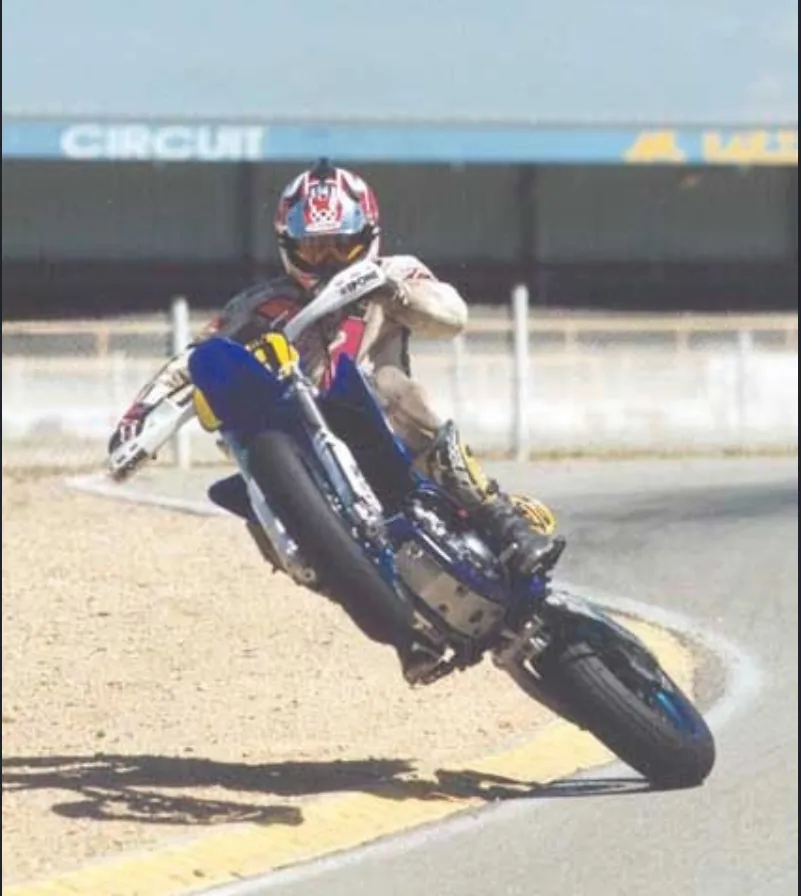
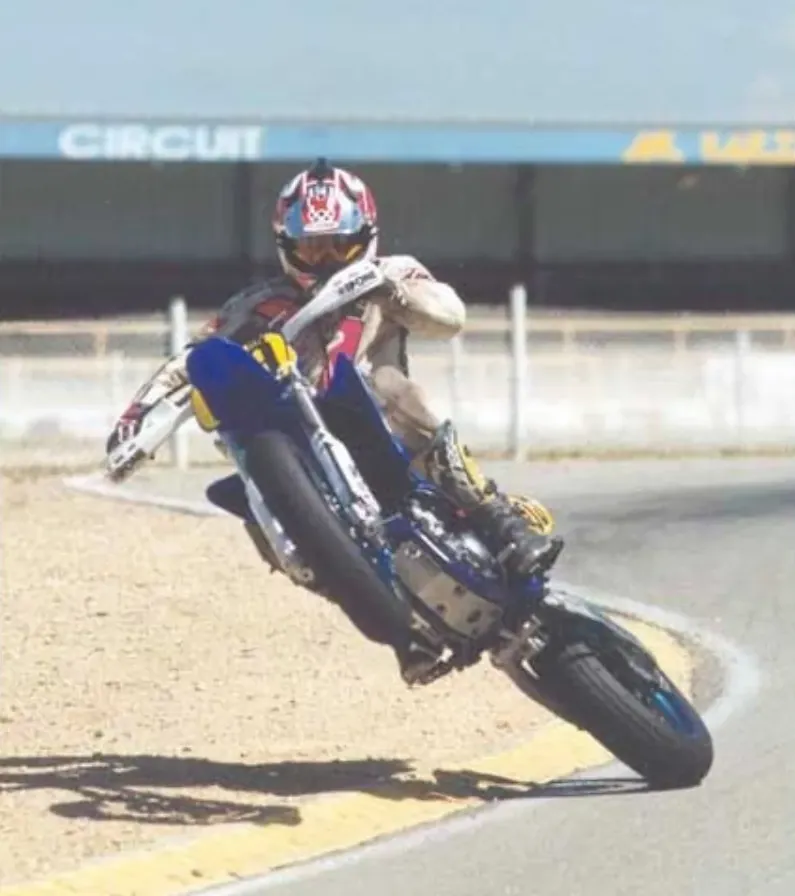
Reveiw + picture resize

diff --git a/docs/07_moto/001_notes_pilotage/005_conduite_du_virage/conduite_du_virage.md b/docs/07_moto/001_notes_pilotage/005_conduite_du_virage/conduite_du_virage.md
@@ -19,7 +19,7 @@ last_modified_date: 2023-05-21 12:35:50
 <!-- ###################################################################### -->
 ## Introduction
 
-Je vais commencer par faire un rappel des épisodes précédents pour bien situer ce billet dans son contexte.
+Je vais commencer par faire un rappel des épisodes précédents pour bien situer ce billet dans son contexte. En effet, c'est le dernier de la partie Basics, après on passe en mode Advanced.
 
 1. Tu as découvert la piste. Tu poses correctement tes pieds, tu sais où sont les cônes (PMSA, PC et PS) et tu te couches sur la moto dans au moins un endroit du circuit. 
 1. Tu as continué à découvrir la piste et tu es 100% gaz, **en butée**, dans au moins un endroit du circuit.
@@ -30,7 +30,7 @@ Bon ben voilà, tout est dit, y a plus qu'à. Allez, salut!
 
 Hmm... Voilà où on en est : on commence à voir certains éléments se mettre en place, on a une idée générale de ce qu’on cherche à **produire**, mais le problème, c’est qu’on manque encore de régularité. Tout ça manque un peu de cohérence, comme si on avait les points mais pas encore les traits pour les relier. En gros, on n’y est pas tout à fait.
 
-Et c’est pour ça que ce billet est un peu particulier, que c'est celui daont la section Remarques est la plus longue et que c'est le dernier de la section Basics. Maintenant, on sait ce qu’on veut : couché, en butée, trois phases de freinage, au point de corde avec les roues vers le point de sortie… Bref, on a les briques de base du pilotage. Ce qu’il nous reste à faire, c’est assembler tout ça pour **produire** quelque chose de solide. En gros, on va jouer au Lego. Sympa, non ? Allez, c’est parti !
+Et c’est pour ça que ce billet est un peu particulier, que c'est celui dont la section Remarques est la plus longue et que c'est le dernier de la section Basics. Maintenant, on sait ce que l’on veut : couché, en butée, trois phases de freinage, sur point de corde avec les roues vers le point de sortie… Bref, on a les briques de base du pilotage. Ce qu’il nous reste à faire, c’est assembler tout ça pour **produire** quelque chose de solide. En gros, on va jouer au Lego. Sympa, non ? Allez, c’est parti !
 
 
 <div align="center">
@@ -38,14 +38,14 @@ Et c’est pour ça que ce billet est un peu particulier, que c'est celui daont 
 </div>
 
 
-* Le freinage en ligne droite est terminé, on met la moto sur l'angle, on rentre dans le virage et ? 
+* Le freinage en ligne droite est terminé, on inscrit la moto sur l'angle, on rentre dans le virage et ? 
 * Et la seule question que l'on doit se poser alors c'est : **comment je fais pour sortir de là comme une balle ?**
 
 Tu connais la réponse. Réfléchis... Les secondes se gagnent dans les lignes droites et les grands virages (pas dans les petits virages, pas dans les freinages ni les portions lentes du circuit). 
 
 On considère que l'on est efficace en ligne droite lorsque le temps passé à V max est maximisé. L'idée c'est que toute chose égales par ailleurs (ligne droite, moto, accélération, V max...) un pilote est plus efficace qu'un autre si il passe plus de temps à V max. Comme les accélérations sont identiques il n'y a pas d'autre solution que de sortir en étant le premier à accélérer. Mécaniquement, si on est le premier à accélérer, à chaque instant on accéléra plus fort et sortira plus vite que l'autre pilote. *Celui qui gagne ce n’est pas celui qui accélère le plus fort mais celui qui accélère le plus tôt*. C'est ça qu'on cherche à **produire** avec une conduite de virage efficace.
 
-Ce qu'il y a bien, c'est que la mesure de nos progrès va être très simple. En effet, l'efficacité de notre conduite de virage n'est mesurée qu'à l'aune de notre vitesse de sortie de virage. On se fiche de l'angle qu'on prend, on se fout d'être Débutant ou Expert et on se contrefiche de notre vitesse d'entrée... Seule compte notre vitesse de sortie du virage.
+Ce qu'il y a bien, c'est que la mesure de nos progrès va être très simple. En effet, l'efficacité de notre conduite de virage n'est mesurée qu'à l'aune de notre vitesse de sortie de virage. On se fiche de l'angle qu'on prend, on se fout d'être Débutant ou Expert et on se contrefiche de notre vitesse d'entrée... Seule compte l'augmentation de notre vitesse de sortie du virage.
 
 
 
@@ -63,7 +63,7 @@ Autrement dit :
 
 * Être capable d'appliquer la **Throttle Rule** dans les virages (voir la [Note de Pilotage N° 02]({%link docs/07_moto/001_notes_pilotage/002_decouverte_de_la_piste_2/decouverte_de_la_piste_2.md%}))
 * Car c'est la confirmation qu'on est sur notre ligne idéale pour tel ou tel virage
-* On s'occupe du point de sortie (PS) car on veut qu'au point de corde (PC) les roues soient sur la ligne qui relie le PV au PS en passant par PC mais on ne s'occupe pas vraiment de la façon dont on redresse la moto. On verra ça un peu plus tard... [Note de Pilotage N° 06] NOT YET TRANSFERED (https://www.40tude.fr/pilotage-moto-06-contre-braquage-en-sortie-de-virage/).
+* On s'occupe du point de sortie (PS) car on veut qu'au point de corde (PC) les roues soient sur la ligne qui relie le PV au PS en passant par PC. Cela dit, on ne s'occupe pas vraiment de la façon dont on redresse la moto. On verra ça plus tard... [Note de Pilotage N° 06] NOT YET TRANSFERED (https://www.40tude.fr/pilotage-moto-06-contre-braquage-en-sortie-de-virage/).
 
 
 
@@ -73,7 +73,7 @@ Autrement dit :
 <!-- ###################################################################### -->
 ## Prérequis
 
-* Ne pas avoir peur d'être 100% gaz, **en butée**. Savoir comment passer à 100% gaz rapidement. Faut avoir déjà expérimenté sinon ça ne sert à rien de venir ici.
+* Ne pas avoir peur d'être 100% gaz, **en butée**. Savoir comment ouvrir les gaz rapidement. Faut l'avoir fait sinon ça ne sert à rien de venir ici. Si tu as un 1000 et si tu n'oses pas le faire passe sur un 600 ou règle ton électronique. Ensuite reprends ton 1000.
 * On a un freinage qui nous amène, à la bonne vitesse, au point de mise sur l'angle (PMSA)
     * La bonne vitesse au PMSA, c'est celle qui nous amène sans frein ni gaz au PV
     * Au PV on a une vitesse à laquelle on hésite pas à claquer au sol la moto pour la faire pivoter le plus rapidement possible
@@ -148,9 +148,9 @@ On a terminé le freinage en ligne droite, on est gaz coupé, on ne touche plus 
     * On peut aussi s'assurer qu'on vise bien le point de corde avec le menton. Normalement c'est le cas mais en faisant la vérification, on va faire tourner la tête, les épaules, le corps et la moto. Ce faisant on va aussi mécaniquement mettre plus de poids sur le cale-pied intérieur. C'est peut-être un détail pour vous mais pour la moto ça veut dire beaucoup 🎶. Ça va contribuer à la faire passer sur l'angle plus rapidement. Mais bon, faut pas se leurrer, appuyer sur les cale-pieds c'est beaucoup moins efficace en terme de rapidité que le contre braquage au guidon. Pour t'en convaincre essaie de prendre une épingle en appuyant uniquement sur les cale-pieds. Good luck.
 
 
-Quoiqu'il en soit, à ce stade on est sur l'angle, gaz coupé, sans frein, on ne lâche pas le point de corde du menton et on a une vitesse suffisante. Suffisante pour quoi ? Pour laisser la moto avancer sur son erre, son inertie et aller rejoindre le point de pivot. C'est la phase neutre. Ce n'est pas facile, car il faut avoir la bonne vitesse en entrée et apprendre la patience... AU point de pivot, comme on a pas d'action parasite sur la moto (ni frein, ni gaz) on peut la claquer au sol très rapidement pour la faire pivoter et orienter nos roues sur la ligne qui lie PV, PC et PS. 
+Quoiqu'il en soit, à ce stade on est sur l'angle, gaz coupé, sans frein, on ne lâche pas le point de corde du menton et on a une vitesse suffisante. Suffisante pour quoi ? Pour laisser la moto avancer sur son erre, son inertie et aller rejoindre le point de pivot. C'est la phase neutre. Ce n'est pas facile, car il faut avoir la bonne vitesse en entrée et apprendre la patience... Au point de pivot, comme on a pas d'action parasite sur la moto (ni frein, ni gaz) on peut la claquer au sol très rapidement pour la faire pivoter et orienter nos roues sur la ligne qui relie PV-PC-PS. 
 
-Dès qu'on a passé PV et que les roues sont alignées, on commence à enrouler. Au début c'est imperceptible et lent. On assois la moto sur sa roue arrière. Comme on est dans la bonne direction on peut pas sortir. Plus on accélère plus on relève la moto. On a plus le genou au sol au PC. On place nos roues sur le point de corde au millimètre près sur la ligne qui relie le PC au PS. 
+Dès qu'on a passé PV et que les roues sont alignées, on commence à enrouler. Au début c'est imperceptible et lent. On assoie la moto sur sa roue arrière. Comme on est dans la bonne direction on peut pas sortir de la piste. Plus on accélère plus on relève la moto. On a plus le genou au sol au PC. On place nos roues sur le point de corde au millimètre près sur la ligne qui relie PV-PC-PS. 
 
 Ce qui va très certainement se passer pendant la session 
 1. Se retrouver trop tôt à la corde
@@ -159,26 +159,26 @@ Ce qui va très certainement se passer pendant la session
 
 **Premier point** :
 * Plus le virage est serré plus il faut s'enfoncer dans le virage pour aller chercher PV loin, très loin (on parle de virage en V, aux US on parle de point'n shoot)
-* Faut pas hésiter à copier le marshall ou ceux qui restent large et qui donnent l'impression, à un moment, de "plonger" à la corde. 
-* On en a déjà parlé mais normalement le roues touchent la corde 1 fois, une fraction de seconde. Si pendant la session c'est pas le cas, au prochain tour, dans ce virage, faut se forcer à aller chercher un PV plus loin dans le virage
+* Faut pas hésiter à copier le marshall ou ceux qui restent large en entrée de virage et qui donnent l'impression, à un moment, de "plonger" à la corde. 
+* On en a déjà parlé mais normalement les roues touchent la corde 1 fois, une fraction de seconde. Si pendant la session c'est pas le cas, au prochain tour, dans ce virage, faut se forcer à aller chercher un PV plus loin dans le virage
 
-**Second point** : On n'est pas suicidaire et généralement on a freiné trop tôt, trop fort. On entre dans le virage trop lentement et on est obligé de remettre un peu d'accélérateur (filet de gaz) pour empêcher la moto de plonger à la corde. En fait, on accélère pour ouvrir la trajectoire de la moto car, par manque de vitesse l'ensemble moto/pilote est survireur. Si ça arrive pendant la session, au prochain tour il faut retarder le freinage de une ou 2 motos de long, relâcher les freins au même endroit et exécuter une inscription sur l'angle plus rapide. On va alors rentrer un peu plus vite. Si la marque de freinage est la bonne on pourra rejoindre PV gaz coupé. À partir de là c'est trop facile. On claque la moto pour la faire pivoter et tout de suite après, on commence à enrouler, on rejoint PC (au millimètre, j'insiste) avec les roues orientées vers PS (j'insiste aussi).
+**Second point** : On n'est pas suicidaire et généralement on a freiné trop tôt, trop fort. On entre dans le virage trop lentement et on est obligé de remettre un peu d'accélérateur (filet de gaz) pour empêcher la moto de plonger à la corde. En fait, on accélère pour ouvrir la trajectoire de la moto car, par manque de vitesse l'ensemble moto/pilote est survireur. Si ça arrive pendant la session, au prochain tour il faut retarder le freinage de une ou 2 motos de long, relâcher les freins au même endroit et exécuter une inscription sur l'angle plus rapide. On va alors rentrer un peu plus vite. Si la marque de freinage est la bonne on pourra rejoindre PV gaz coupé. À partir de là c'est trop facile. On claque la moto pour la faire pivoter et tout de suite après, on commence à enrouler, on rejoint PC (au millimètre, j'insiste) avec les roues orientées vers PS (j'insiste encore).
 
 Si on remet les gaz trop tôt, trop fort on va s'écarter de la ligne idéale
 * Faudra couper, réaligner et réaccélérer ce qui est très mauvais pour le grip de la moto
 * Couper les gaz c'est LE signe qui indique qu'on a accéléré trop fort, trop tôt
 * Faudra corriger le tir au tour suivant en accélérant moins fort ou plus tard
 
-À la fin du virage on peut se permettre d'enrouler de plus en plus vite la poignée de gaz car la moto est de plus en plus verticale et on a de plus en plus de grip sur le pneu arrière.
+À la fin du virage on peut se permettre d'enrouler de plus en plus vite la poignée de gaz car la moto est de plus en plus verticale et on a de plus en plus de grip sur le pneu arrière. À titre indicatif, on peut avoir 100% de la cavalerie au pneu arrière quand la moto a l'angle qu'elle aurait sur une béquille latérale.
 
 À la sortie du virage :
-* On est 100% gaz. C'est important. Trop souvent nous ne sommes pas complètement full gaz (voir la [Note 01](https://www.40tude.fr/pilotage-moto-01-decouverte-de-la-piste/))
+* On est 100% gaz, **en butée**. C'est important. Trop souvent nous ne sommes pas complètement full gaz (voir la [Note 01](https://www.40tude.fr/pilotage-moto-01-decouverte-de-la-piste/))
 * Le corps et la tête restent à l'intérieur du virage. Cela permet de resserrer la trajectoire en sortie de virage. On se prouve ainsi qu'on a encore de la marge et qu'au prochain tour on pourra accélérer encore plus fort. 
 * Ensuite, on ramène juste la tête et le torse derrière la bulle
 * Fesse intérieure encore sortie, la raie des fesses calée sur le bord de la selle.
 * Si le prochain virage est dans le même sens alors on ne bouge pas (oui, oui on reste de travers sur la moto)
 * Si le prochain virage est dans l'autre sens, quand on est en ligne droite, **au prochain passage de vitesse**, on ramène les fesses en utilisant les cuisses.
-* Si le virage suivant est dans l'autre sens mais que la ligne droite n'est pas assez longue pour qu'on passe une vitesse, comme on appuie fort sur les cale-pieds et qu'on est light sur la moto, on utilise la cuisse extérieure pour ramener le reste du corps dans l'axe. On peut même anticiper les choses et faire passer le corps carrément de l'autre côté de la moto afin de se positionner pour le prochain virage. Si la ligne droite est courte c'est l'option à choisir.
+* Si le virage suivant est dans l'autre sens mais que la ligne droite n'est pas assez longue pour qu'on passe une vitesse, comme on appuie fort sur les cale-pieds et qu'on est lite sur la moto, on utilise la cuisse extérieure pour ramener le reste du corps dans l'axe. On peut même anticiper les choses et faire passer le corps carrément de l'autre côté de la moto afin de se positionner pour le prochain virage. Si la ligne droite est courte c'est l'option à choisir.
 
 Dans la vidéo ci-dessous pensez à mettre les sous-titres en Anglais et la vitesse à 0.75 car Alberto parle très vite.
 
@@ -187,7 +187,7 @@ Dans la vidéo ci-dessous pensez à mettre les sous-titres en Anglais et la vite
 </div>
 
 
-Dans la vidéo suivante Simon Crafar revient en détail sur sa préférence de conduire le virage gaz fermé et sans aucune utilisation des freins (vs [Trail Braking](https://www.40tude.fr/pilotage-moto-09-freinage-sur-langle-trail-breaking/)). Pas d'offense, mais j'avoue, j'ai un peu de mal avec son anglais de néo-zélandais.
+Dans la vidéo suivante Simon Crafar revient en détail sur sa préférence de conduire le virage gaz fermé et sans aucune utilisation des freins (vs [Trail Braking](https://www.40tude.fr/pilotage-moto-09-freinage-sur-langle-trail-breaking/)). Pas d'offense, mais j'avoue que j'ai un peu de mal avec son anglais de néo-zélandais.
 
 <div align="center">
 <iframe width="560" height="315" src="https://www.youtube.com/embed/ps12mz_i3-0?si=AN03fFpXL2UbP3Yg" title="YouTube video player" frameborder="0" allow="accelerometer; autoplay; clipboard-write; encrypted-media; gyroscope; picture-in-picture; web-share" referrerpolicy="strict-origin-when-cross-origin" allowfullscreen></iframe>
@@ -209,10 +209,10 @@ Dans la vidéo suivante Simon Crafar revient en détail sur sa préférence de c
 Il faut sentir :
 * Qu'on sort dorénavant plus vite du virage car on a commencé à accélérer plus tôt
 * Qu'on est plus tôt et plus longtemps 100% gaz dans la ligne droite qui suit le virage 
-* Qu'en entrée de virage on ne lâche pas des yeux le point de corde
+* Qu'en entrée de virage on ne lâche pas du menton le point de corde
 * Qu'on rentre avec une vitesse suffisante pour rejoindre PV
 * Qu'il y a une phase neutre où on est patient et où on ne touche à rien.
-* Qu'on commence à enrouler le câble d'accélérateur juste après PV, avant de placer nos roues sur le point de corde sur la ligne PV-PC-PS
+* Qu'on commence à enrouler le câble d'accélérateur juste après PV, avant de placer nos roues sur le point de corde, sur la ligne PV-PC-PS
 * Que ce sont bien les roues qui passent au point de corde, pas la tête ni le genou
 * Qu'idéalement on est 100% gaz au point de corde
 * Que la tête et le corps reste à l'intérieur en sortie de virage ce qui permet de resserrer la sortie de virage, de redresser plus vite la moto et d'accélérer plus fort.
@@ -301,6 +301,7 @@ La vidéo associée (où Alberto parle aussi de Grip-Shifting etc.)
 
 
 **En résumé**
+
 En fait, dans ces histoires de position et de conduite de virage, c'est surtout une question de sensation. Faut trouver LE truc, LA sensation, LE touché qui fait que vous savez que telle ou telle partie du corps est correctement positionnée. Tout ne viendra pas d'un seul coup mais l'idée c'est de travailler un truc, puis un autre etc. Par exemple on peut aller voir les photos de la journée de roulage. C'est toujours très instructif.
 
 Il faut quand même garder à l'esprit que c'est parce que l'on veut passer de plus en plus vite en virage qu'on ajuste et qu'on modifie sa position. C'est donc pour ça qu'au tout début ce n'est pas la peine de se croire en MotoGP. Ce n'est pas la position qui va nous faire passer plus vite, **c'est parce qu'on veut passer plus vite qu'on ajuste notre position**.
@@ -343,11 +344,9 @@ La seconde partie de la vidéo ci-dessous peut donner des idées. Entre autres, 
 
 
 ### Qu'est ce qui nous empêche d'avoir des mises sur l'angle plus rapides ? 
-Si on garde le même point de mise sur l'angle et la même vitesse cela permet d'avoir moins d'angle dans le virage
+Si on garde le même point de mise sur l'angle et la même vitesse cela permet d'avoir moins d'angle dans le virage.
 
-La vitesse de mise sur l'angle détermine la vitesse de passage dans le virage. Point, fin de l'histoire
-
-On peut essayer de mettre les bras un peu plus à l'horizontal pour avoir plus de couple quand on pousse sur le bracelet intérieur. Faut aussi penser à vérifier si les bracelets n'ont pas besoin d'être écartés.
+La vitesse de mise sur l'angle détermine la vitesse de passage dans le virage. Point, fin de l'histoire.
 
 Si la mise sur l'angle est lente alors, on :
 * Tourne trop tôt
@@ -360,6 +359,8 @@ Si la mise sur l'angle est lente alors, on :
 La vitesse de mise sur l'angle c'est **LA** différence entre les pilotes
 
 **Comment faire ?**
+* On peut essayer de mettre les bras un peu plus à l'horizontal pour avoir plus de couple quand on pousse sur le bracelet intérieur. 
+* Faut aussi penser à vérifier si les bracelets n'ont pas besoin d'être écartés.
 * Lors de la mise sur l'angle, penser à alléger les fesses et à appuyer sur les cale-pieds
 * Sentir qu'on pousse sur le bras intérieur
 
@@ -367,22 +368,26 @@ La vitesse de mise sur l'angle c'est **LA** différence entre les pilotes
 
 
 
-### *Quand est-ce qu'il commencer à ouvrir les gaz ?*
+### *Quand est-ce qu'il faut commencer à ouvrir les gaz ?*
 
-Une fois arrivé au point "où on le sent bien" on enroule gentiment et continûment (Throttle rule, répartition des masses 40/60...). Ça peut être au milieu du virage, au point de corde, peu après le point de corde... Plus tard se sera systématiquement avant le point de corde, juste après le PV une fois que nos roues seront sur la ligne PV-PC-PS. L'idée c'est de se donner les moyens d'être 100% gaz au point de corde.
+Une fois arrivé au point "où on le sent bien" on enroule gentiment et continûment (Throttle rule, répartition des masses 40/60...). Au début, ça peut être au milieu du virage, au point de corde, peu après le point de corde... Plus tard se sera systématiquement avant le point de corde, juste après le PV une fois que nos roues seront sur la ligne PV-PC-PS. L'idée c'est de se donner les moyens d'être 100% gaz au point de corde.
 
-* Si, quand on accélère, on sent le nez de la moto se relever, c'est qu'on a accéléré encore trop fort. Au début ça doit être imperceptible.
-* Vraiment, l'un des trucs, c'est de ne plus laisser la poignée de gaz stable sur un filet de gaz en virage. Dorénavant les gaz sont coupés en entrée de virage puis on les ouvre continûment, en le faisant tout "dou-ce-ment" au début. Enfin bref, plus de filet de gaz dans les virages.
+* Si, quand on accélère, on sent le nez de la moto se relever, c'est qu'on a accéléré encore trop fort. Au début ça doit être vraiment imperceptible.
+* Vraiment, l'un des trucs, c'est de ne plus laisser la poignée de gaz stable sur un filet de gaz en virage. Dorénavant les gaz sont coupés en entrée de virage puis on les ouvre continûment, en le faisant tout "dou-ce-ment" au début. Enfin bref, **plus de filet de gaz dans les virages**.
 * 40/60 : c'est la répartition idéale des charges (en pourcentage) entre l'avant et l'arrière. En accélérant gentiment on déleste un peu l'AV et on charge un peu l'AR. C'est l'idéal pour la moto.
 
 
 Dit autrement... Le moment où on commence à enrouler le câble d'accélérateur c'est souvent au milieu du virage, un peu avant le point de corde qui lui se trouve généralement au 3/4 du virage (plus le virage est serré plus le point de corde est reculé).
 
-Quand on dit "un peu avant le point de corde" il faut comprendre 2 ou 3 motos de long. L'idée c'est de commencer à ouvrir tout doucement afin que le transfert de charge de l'avant vers l'arrière soit imperceptible. Ensuite, c'est parti, on enroule et on s'arrête plus et on enroule de plus en plus vite.
+Quand on dit "un peu avant le point de corde" il faut comprendre 2 ou 3 motos de long. L'idée c'est de commencer à ouvrir tout doucement afin que le transfert de charge de l'avant vers l'arrière soit imperceptible. Ensuite, c'est parti, on enroule, on s'arrête plus et on enroule de plus en plus vite.
 
-De manière générale, on commence à ouvrir les gaz une fois que la mise sur l'angle est terminée (ça c'est évident), qu'on est sûr qu'on va placer nos roues sur le point de corde (au millimètre près), qu'on sait par où on va passer pour sortir du virage et qu'on doit commencer à relever la moto.
+De manière générale, on commence à ouvrir les gaz une fois que 
+1. le pivot terminé (ça c'est évident)
+1. que les 2 roues sont sur la ligne PV-PC-PS
+1. qu'on est sûr qu'on va placer nos roues **sur** le point de corde (au millimètre près)
 
-Du coup selon les virages cela peut être, loin avant, près de, ou carrément sur le point de corde. Dans tous les cas il faut être patient et si on ouvre trop tôt, au tour suivant il faut retarder le freinage, rentrer dans la courbe avec plus de vitesse et commencer à accélérer plus tard.
+
+Du coup, comme PV et PC vont être plus ou moins espacés en fonction des virages, le moment où on accélère peut être, loin avant, près de, ou carrément sur le point de corde. En général cependant il faut être patient et si on ouvre trop tôt, au tour suivant il faut retarder le freinage, rentrer dans la courbe avec plus de vitesse et commencer à accélérer plus tard.
 
 La vidéo suivante traite spécifiquement du sujet.
 
@@ -423,6 +428,8 @@ Aller le plus loin possible pour aller chercher le bord extérieur de la piste (
 
 Voir la vidéo ci-dessous :
 
+**janvier 2025 :** même si elle n'a pas l'air disponible, elle l'est. 
+
 <!-- https://youtu.be/I1GDuD8JuWQ?t=41 -->
 <div align="center">
 <iframe width="560" height="315" src="https://www.youtube.com/embed/I1GDuD8JuWQ?si=1BjVJ2QCKqScrX_1&amp;start=41" title="YouTube video player" frameborder="0" allow="accelerometer; autoplay; clipboard-write; encrypted-media; gyroscope; picture-in-picture; web-share" referrerpolicy="strict-origin-when-cross-origin" allowfullscreen></iframe>
@@ -430,6 +437,8 @@ Voir la vidéo ci-dessous :
 
 
 ### Les plus gros gains sont dans les virages rapides (et les lignes droites)
+
+Il faut donc les identifier, les chouchouter et éviter de les gâcher bêtement...
 
 **Throttle Rule 2**
 * *In any fast-entry turn, calculate the roll-off as carefully as you would a roll-on*
@@ -449,7 +458,7 @@ En effet :
 * Ça tue la vitesse de sortie
 
 Au lieu d'essayer d'arriver à fond à 13 000 tr/minute tout de suite.
-* Commencer en arrivant à vitesse constante 9 000 **qu'on est sûr de pouvoir tenir dans tout le virage**
+* Commencer en arrivant à vitesse constante 9 000 tr/minute **qu'on est sûr de pouvoir tenir dans tout le virage**
 * Dans le virage, accélérer pour faire un transfert de charge vers l'arrière et se retrouver en 40/60 entre l'avant et l'arrière.
 * Au prochain tour augmenter de 500 tr/min à l'entrée.
 
@@ -554,7 +563,7 @@ Voir la vidéo ci-dessous à partir de 27'30''
 
 On va là où on regarde. Donc si à l'entrée du virage on regarde l'intérieur du virage, le début du vibreur par exemple, c'est là qu'on va aller.
 * On aura une ligne "facile" jusqu'à la l'intérieur du virage mais on sera planté pour la sortie.
-* En effet, en sortie, notre trajectoire sera trop large. Il va falloir rester longtemps sur l'angle pour virer, on va donc perdre beaucoup de temps à remettre la moto verticale et à 100% des gaz
+* En effet, si à la corde, nos roues ne sont toujours pas dans la direction de PS, notre trajectoire sera trop large. Il va falloir rester très longtemps sur l'angle avant de pouvoir accélérer. On va donc perdre beaucoup de temps à remettre la moto verticale et à 100% des gaz. On en avait parlé dans le billet [Three Steps](docs/07_moto/001_notes_pilotage/003_three_steps/three_steps.md#le-point-de-corde-pc)
 
 Pour éviter ça il est recommandé :
 * D'arriver sur le virage en étant tout à l'extérieur (à rouler à 1 cm de la bande blanche)
